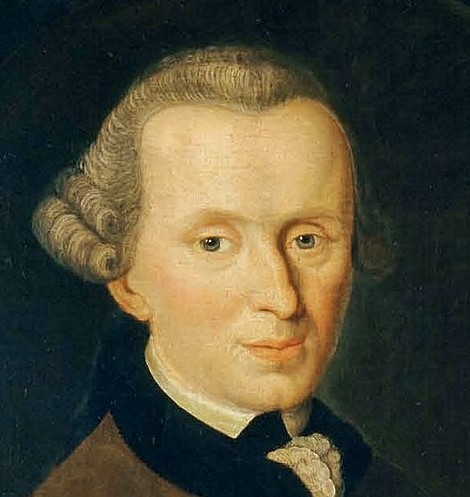
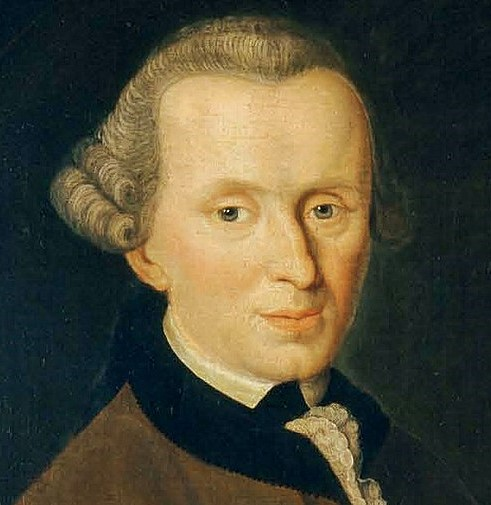
ResponsiveImages
Changed to srcset rather than picture element.

diff --git a/famousGermansandSites.html b/famousGermansandSites.html
@@ -85,7 +85,12 @@
     <div class="people kant">
         <div class="person">
             <p class="famousName">Immanuel Kant</p>
-            <img src="images/kant-mobile.jpg" alt="A portrait of Immanuel Kant" 
+            <img srcset="images/kant-mobile.jpg 450w,
+            images/kant-tablet.jpg 400w,
+            images/kant.jpg 800w"
+            sizes="(max-width: 767px) 450px,
+            (max-width: 991px) 400px,
+            8oopx" 
             data-bs-toggle="tooltip" 
             data-bs-custom-class="custom-tooltip" 
             data-bs-title="Kant was Chidi's favourite philosopher in NBC's The Good Place">
@@ -95,7 +100,12 @@
 
         <div class="person beethoven">
             <p class="famousName">Ludwig van Beethoven</p>
-            <img src="images/Beethoven.jpg" alt="A portrait of Ludwig van Beethoven" 
+            <img srcset="images/Beethoven-mobile.jpg 450w,
+            images/Beethoven-tablet.jpg 400w,
+            images/Beethoven.jpg 800w"
+            sizes="(max-width: 767px) 450px,
+            (max-width: 991px) 400px,
+            8oopx" 
             data-bs-toggle="tooltip" 
             data-bs-custom-class="custom-tooltip" 
             data-bs-title="The Saint Bernard in the Beethoven movies where a dog is named after the composer was actually named Chris!">
@@ -105,7 +115,12 @@
 
         <div class="person einstein">
             <p class="famousName">Albert Einstein</p>
-            <img src="images/Einstein.jpg" alt="A portrait of Albert Einstein" 
+            <img srcset="images/Eitnstein-mobile.jpg 450w,
+                            images/Einstein-tablet.jpg 400w,
+                            images/Einstein.jpg 800w"
+                            sizes="(max-width: 767px) 450px,
+                            (max-width: 991px) 400px,
+                            8oopx"
             data-bs-toggle="tooltip" 
             data-bs-custom-class="custom-tooltip" 
             data-bs-title="Kevin's trivia group in The Office was named after Einstein but when a question about this physicist came up, they did not know the answer!">
@@ -117,19 +132,30 @@
     <div class="sites">
         <div class="site gate">
             <p class="famousSite">Brandenburg Gate</p>
-            <picture>
-            <source media="(max-width: 767px)" srcset="images/brandenburgGate-mobile.jpg">
-            <source media="(min-width: 768px)" srcset="images/brandenburgGate-tablet.jpg">
-            <source media="(min-width: 992px)" srcset="images/brandenburgGate.jpg">
-            <img src="images/bradenburgGate-mobile.jpg" alt="A photo of the Brandenburg Gate">
-            </picture>
+            <img
+                srcset="images/bradenburgGate-mobile.jpg 450w,
+                        images/bradenburgGate-tablet.jpg 400w,
+                        images/bradenburgGate.jpg 800w"
+                sizes="(max-width: 767px) 450px,
+                        (max-width: 991px) 400px,
+                        8oopx"
+                src="images/bradenburgGate-mobile.jpg"
+                alt="A photo of the Brandenburg Gate"
+                data-bs-toggle="tooltip" 
+                data-bs-custom-class="custom-tooltip" 
+                data-bs-title="Players can steal the Brandenburg Gate in the game Tropico 6 to improve their country.">   
             <p class="siteInfo location">Location: Berlin</p>
             <p class="siteInfo">Erected in: 1791</p>
         </div>
 
         <div class="site cathedral">
             <p class="famousSite">Cologne Cathedral</p>
-            <img src="images/cologne.jpg" alt="A photo of the Cologne Cathedral" 
+            <img srcset="images/cologne-mobile.jpg 450w,
+            images/cologne-tablet.jpg 400w,
+            images/cologne.jpg 800w"
+            sizes="(max-width: 767px) 450px,
+            (max-width: 991px) 400px,
+            8oopx" 
             data-bs-toggle="tooltip" 
             data-bs-custom-class="custom-tooltip" 
             data-bs-title="The cologne cathedral is a masterwork of architecture with its 140-foot-tall ceiling!">
@@ -139,7 +165,12 @@
 
         <div class="site castle">
             <p class="famousSite">Neuschwanstein Castle</p>
-            <img src="images/brandenburg.jpg" alt="A photo of the Neuschwanstein Castle" 
+            <img srcset="images/neuschwanstein-mobile.jpg 450w,
+            images/neuschwanstein-tablet.jpg 400w,
+            images/neuschwanstein.jpg 800w"
+            sizes="(max-width: 767px) 450px,
+            (max-width: 991px) 400px,
+            8oopx" 
             data-bs-toggle="tooltip" 
             data-bs-custom-class="custom-tooltip" 
             data-bs-title="This castle is thought to be the inspiration for the disney castle!">
